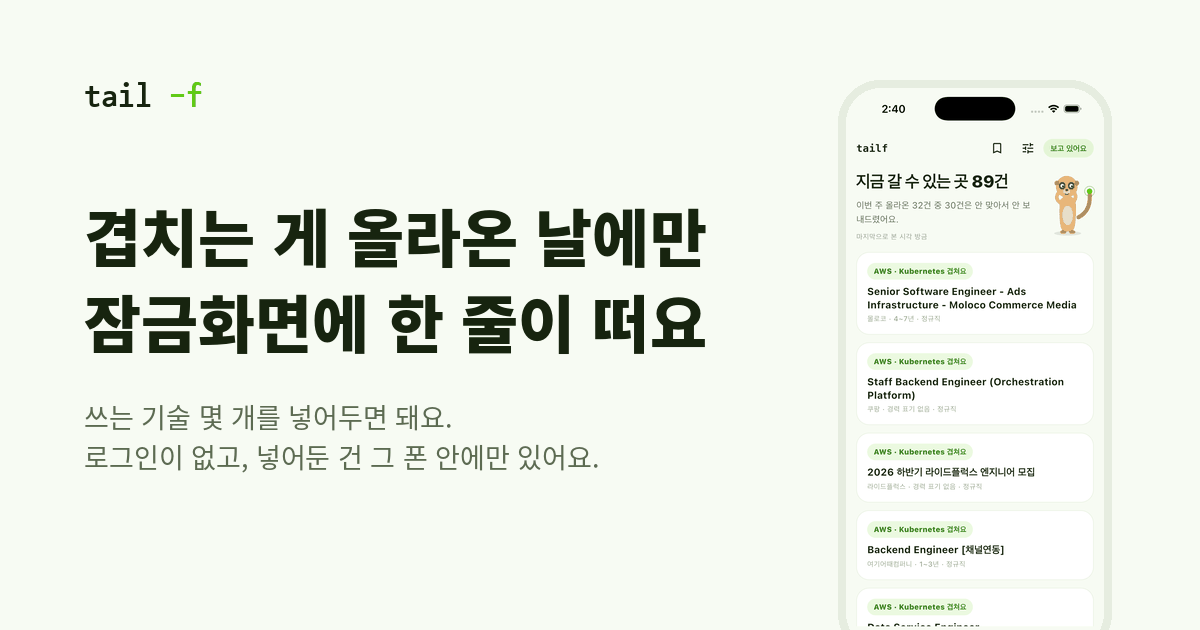
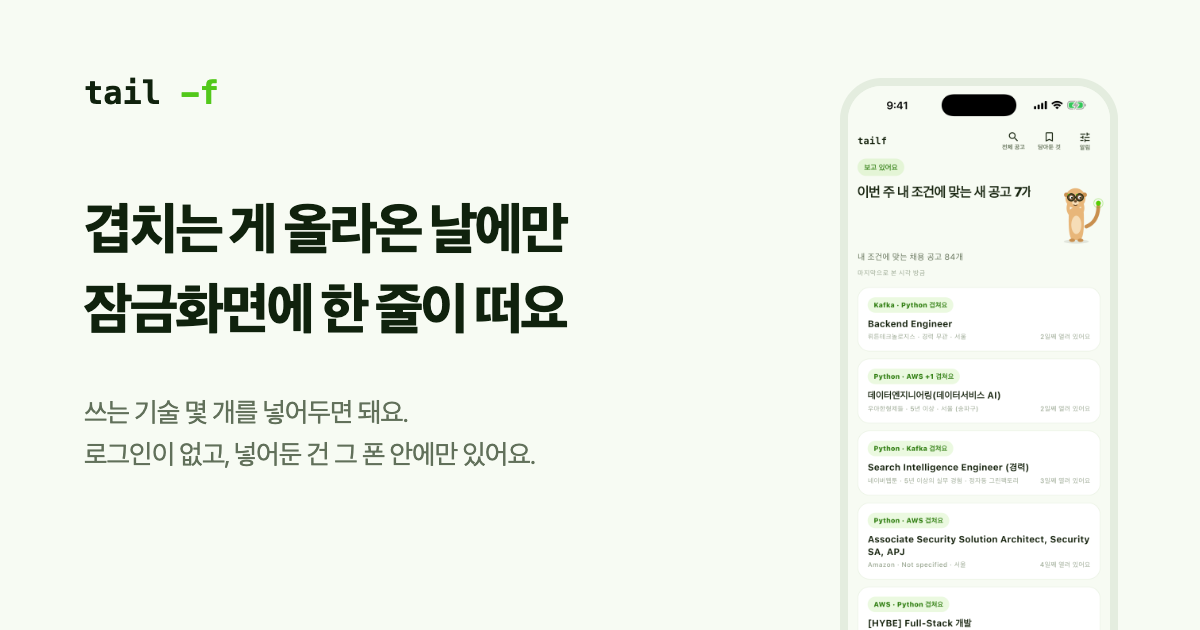
Replace stale home copy across landing assets

diff --git a/index.html b/index.html
@@ -16,7 +16,7 @@
 <meta property="og:image" content="https://tailf.asyncsite.com/assets/og.png">
 <meta property="og:image:width" content="1200">
 <meta property="og:image:height" content="630">
-<meta property="og:image:alt" content="tailf 홈 화면. 지금 갈 수 있는 곳 89건.">
+<meta property="og:image:alt" content="tailf 홈 화면. 이번 주 내 조건에 맞는 새 공고 7개.">
 <meta name="twitter:card" content="summary_large_image">
 <meta name="twitter:title" content="tailf · 겹치는 게 올라온 날에만 잠금화면에 떠요">
 <meta name="twitter:description" content="쓰는 기술 몇 개를 넣어두면, 겹치는 개발 공고가 올라온 날에만 잠금화면에 한 줄이 떠요.">
@@ -58,8 +58,8 @@
       </div>
       <div class="hero-shot">
         <div class="phone">
-          <img src="/assets/home.png" width="720" height="1565" fetchpriority="high" decoding="async"
-               alt="tailf 홈 화면. 「지금 갈 수 있는 곳 89건」 아래에 「이번 주 올라온 32건 중 30건은 안 맞아서 안 보내드렸어요」가 적혀 있고, 겹친 기술이 적힌 공고 카드가 이어집니다.">
+          <img src="/assets/home.png" width="1320" height="2868" fetchpriority="high" decoding="async"
+               alt="tailf 홈 화면. 「이번 주 내 조건에 맞는 새 공고 7개」를 먼저 보여주고, 그 아래에 「내 조건에 맞는 채용 공고 84개」와 공고 카드가 이어집니다.">
         </div>
       </div>
     </div>
@@ -109,7 +109,7 @@
         <div class="step-copy">
           <span class="step-no">01</span>
           <h3>쓰는 기술을 두 개 이상 넣어두기</h3>
-          <p>고를 때마다 지금 갈 수 있는 곳이 몇 건인지 바로 볼 수 있어요. 이름도 메일 주소도 안 물어봐요. 여기 적은 건 그 폰에만 있어요.</p>
+          <p>고를 때마다 내 기술과 겹치는 채용 공고가 몇 개인지 바로 볼 수 있어요. 이름도 메일 주소도 안 물어봐요. 여기 적은 건 그 폰에만 있어요.</p>
         </div>
         <div class="step-shot">
           <div class="phone">
@@ -159,12 +159,12 @@
 
       <div class="grid4">
         <div class="cell">
-          <h3>본 수와 안 보낸 수가 홈에 적혀 있어요</h3>
-          <p>앱을 열면 「이번 주 올라온 32건 중 30건은 안 맞아서 안 보내드렸어요」처럼 그대로 적혀 있어요. 언제 몇 건을 봤는지는 「그동안 본 것」에 시각까지 남아요.</p>
+          <h3>이번 주 맞는 새 공고 수가 홈에 보여요</h3>
+          <p>앱을 열면 「이번 주 내 조건에 맞는 새 공고 7개」가 먼저 보여요. 지금 조건에 맞는 전체 채용 공고 수도 그 아래에 있어요. 언제 몇 건을 봤는지는 「그동안 본 것」에 시각까지 남아요.</p>
         </div>
         <div class="cell">
-          <h3>0건인 날은 0건이라고 적어요</h3>
-          <p>「볼 만한 것 0건. 약속대로 조용했어요.」라고 적혀 있어요. 그날 올라온 걸 다 보고 남은 게 0건이었다는 뜻이에요.</p>
+          <h3>맞는 새 공고가 없으면 0개라고 보여요</h3>
+          <p>「이번 주 내 조건에 맞는 새 공고 0개」라고 보여요. 이번 주에 새로 맞는 공고가 없다는 뜻이에요.</p>
         </div>
         <div class="cell">
           <h3>잠금화면엔 「봐둘 게 2건 있어요」 한 줄만 떠요</h3>
@@ -198,8 +198,8 @@
         <figcaption>목록을 본 다음에 좁혀요. 안 골라도 되고, 비워 두면 그건 안 따져요.</figcaption>
       </figure>
       <figure class="shot">
-        <div class="phone"><img src="/assets/home.png" width="720" height="1565" loading="lazy" decoding="async" alt="홈 화면. 「지금 갈 수 있는 곳 89건」과 안 보낸 수, 겹친 기술이 적힌 공고 카드."></div>
-        <figcaption>홈에는 지금 갈 수 있는 곳과 안 보낸 수가 있어요.</figcaption>
+        <div class="phone"><img src="/assets/home.png" width="1320" height="2868" loading="lazy" decoding="async" alt="홈 화면. 「이번 주 내 조건에 맞는 새 공고 7개」와 「내 조건에 맞는 채용 공고 84개」 아래에 공고 카드가 이어집니다."></div>
+        <figcaption>홈에는 이번 주 맞는 새 공고 수가 먼저 보여요.</figcaption>
       </figure>
       <figure class="shot">
         <div class="phone"><img src="/assets/detail.png" width="600" height="1304" loading="lazy" decoding="async" alt="공고 상세. 「왜 나한테 왔나」 절에 겹친 기술과 경력과 근무지가 줄줄이 적혀 있습니다."></div>
@@ -230,7 +230,7 @@
         </details>
         <details>
           <summary>알림이 안 오는데 고장 아니에요?</summary>
-          <p>안 오는 날이 대부분이에요. 새로 올라온 것 중에 기술이 두 개 이상 겹치는 것만 보내드리거든요. 앱을 열면 그동안 몇 건이 올라왔고 몇 건이 안 맞아서 그냥 넘어갔는지 그대로 적혀 있어요. 0건인 날은 「볼 만한 것 0건. 약속대로 조용했어요.」라고 적혀 있어요.</p>
+          <p>안 오는 날이 대부분이에요. 새로 올라온 것 중에 기술이 두 개 이상 겹치는 것만 보내드리거든요. 앱을 열면 이번 주 내 조건에 맞는 새 공고 수가 먼저 보여요. 없으면 「이번 주 내 조건에 맞는 새 공고 0개」라고 보여요.</p>
         </details>
         <details>
           <summary>잠금화면에 회사 이름이 뜨나요?</summary>
